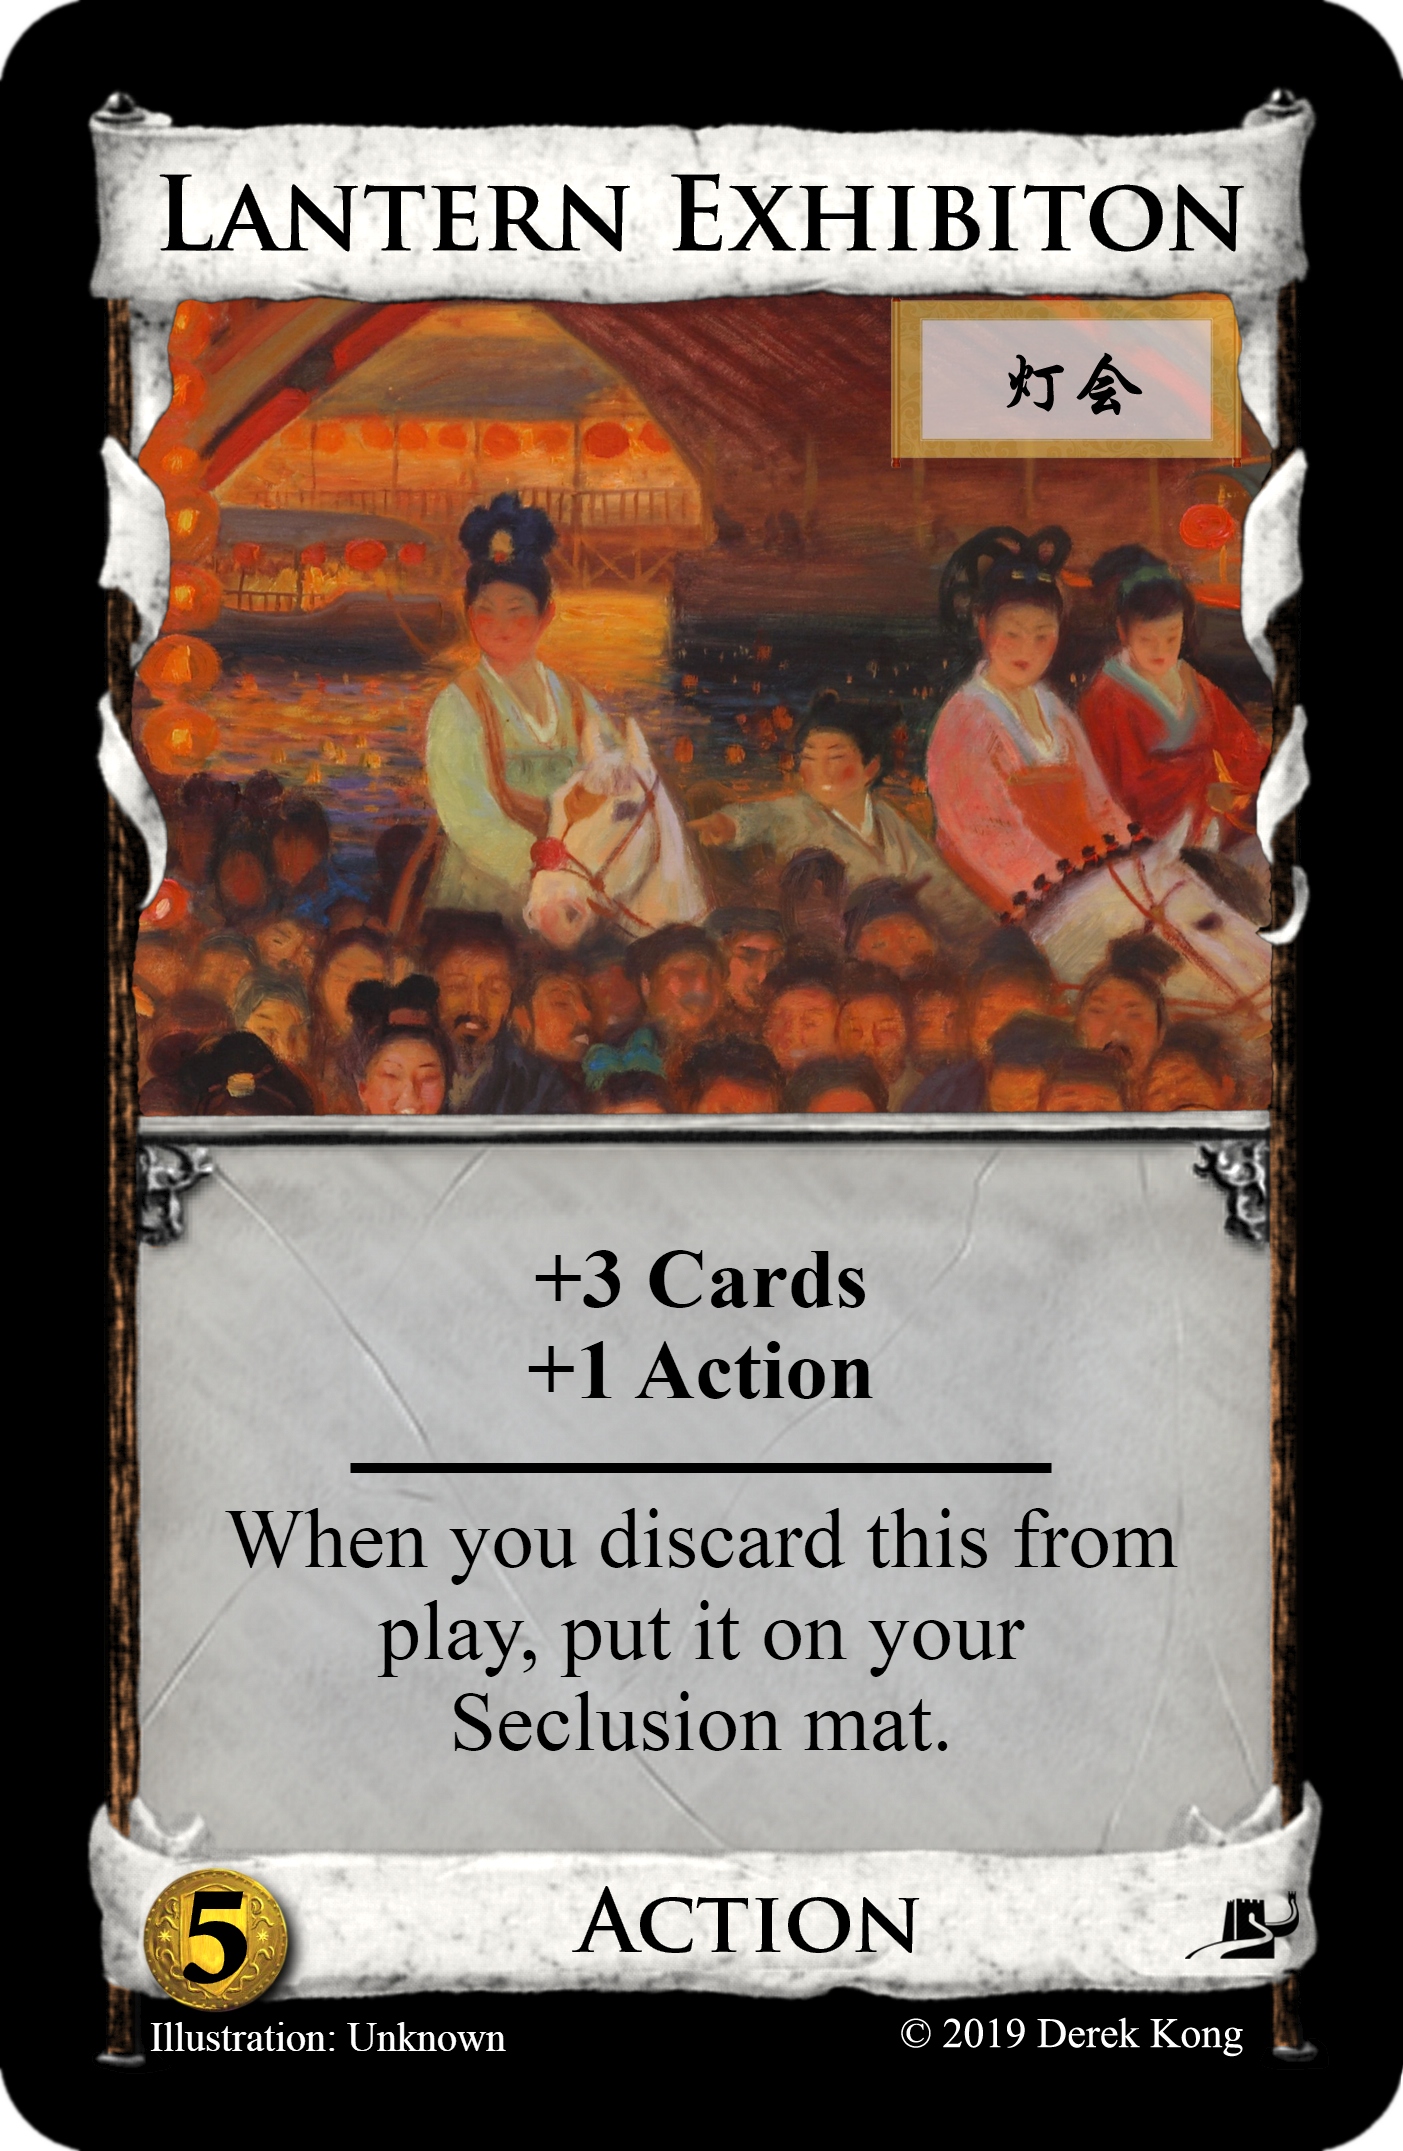
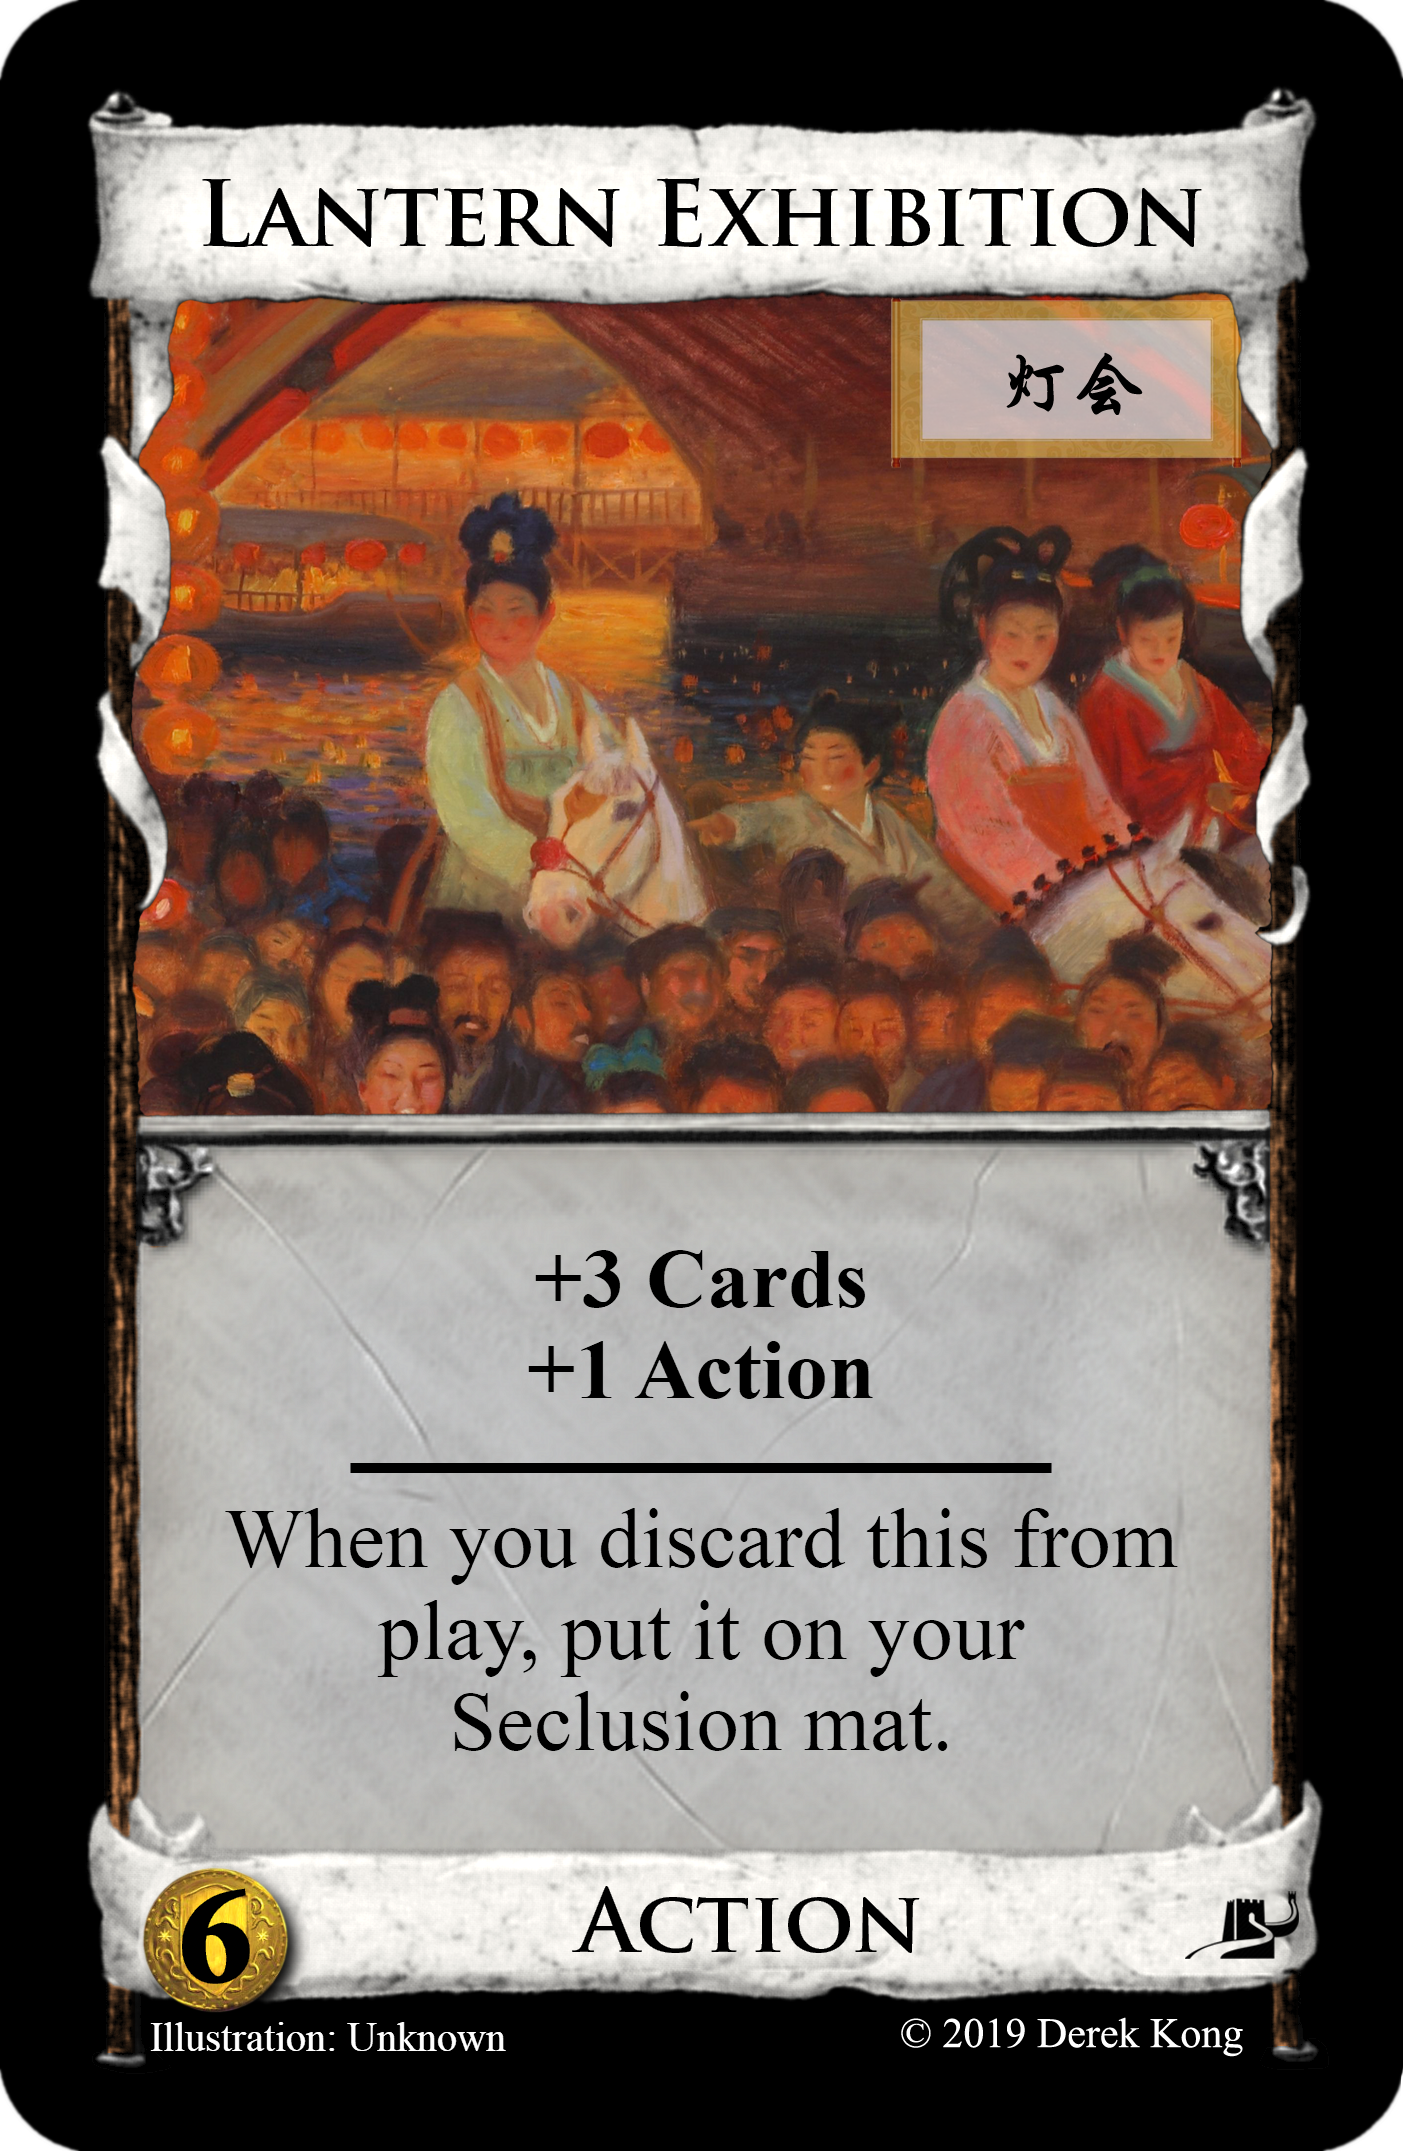
#0085 Dominion Oriental cards fixture

diff --git a/src/main/webapp/view/css/dominionGame.css b/src/main/webapp/view/css/dominionGame.css
@@ -90,7 +90,7 @@ button[disable]{
 }
 .choosehand-number{
 	position: relative;
-	top: 26px;
+	top: 21px;
 	left: 33px;
 	color: white;
 	font-weight:500;

diff --git a/src/main/java/com/cosine/cosgame/dominion/oriental/PendantForWine.java b/src/main/java/com/cosine/cosgame/dominion/oriental/PendantForWine.java
@@ -18,9 +18,29 @@ public class PendantForWine extends Card{
 		Ask ask = super.play();
 		if (player.getHand().size()>0) {
 			player.addCoin(5);
-			log(player.getName() + " discards hand for +$5", 1);
-			player.discardHand();
+			if (player.getHand().size()<5) {
+				log(player.getName() + " discards hand for +$5", 1);
+				player.discardHand();
+			} else {
+				ask.setType(Ask.HANDCHOOSE);
+				ask.setUpper(4);
+				ask.setLower(4);
+				ask.setMsg("Discard 4 cards");
+			}
+			
+			
 		}
 		return ask;
+	}
+	
+	public Ask response(Ask a) {
+		Ask ask = super.response(a);
+		log(player.getName()+" discards 4 cards for +$5",1);
+		for (int i=0;i<ask.getSelectedCards().size();i++) {
+			player.discard(ask.getSelectedCards().get(i));
+		}
+		ask = new Ask();
+		return ask;
+		
 	}
 }

diff --git a/src/main/java/com/cosine/cosgame/dominion/oriental/Executioner.java b/src/main/java/com/cosine/cosgame/dominion/oriental/Executioner.java
@@ -5,6 +5,7 @@ import java.util.List;
 
 import com.cosine.cosgame.dominion.Ask;
 import com.cosine.cosgame.dominion.Card;
+import com.cosine.cosgame.dominion.Player;
 
 public class Executioner extends Card{
 	public Executioner() {
@@ -42,6 +43,15 @@ public class Executioner extends Card{
 			log(player.getName() + " receives 2 Memorial tokens",1);
 		}
 		ask = new Ask();
+		return ask;
+	}
+	
+	public Ask onGain(Player p) {
+		if (p.getPhase() != Player.OFFTURN) {
+			p.addCoin(1);
+			log(p.getName() + " gets +$1", 1);
+		}
+		Ask ask = new Ask();
 		return ask;
 	}
 }

diff --git a/src/main/java/com/cosine/cosgame/dominion/oriental/ArmyDrummer.java b/src/main/java/com/cosine/cosgame/dominion/oriental/ArmyDrummer.java
@@ -31,9 +31,11 @@ public class ArmyDrummer extends Card{
 	}
 	
 	public Ask onGain(Player p) {
-		if (p.getPhase() != Player.OFFTURN) {
-			p.addCoin(1);
-			log(p.getName() + " gets +$1", 1);
+		int n = p.getDiscard().size() - 1;
+		if (p.getDiscard().get(n).getName().equals(name)) {
+			Card card = p.getDiscard().remove(n);
+			p.getSeclusion().add(card);
+			log("Army Drummer is gained to " + p.getName() + "'s Seclusion mat", 0);
 		}
 		Ask ask = new Ask();
 		return ask;

diff --git a/src/main/java/com/cosine/cosgame/dominion/oriental/LanternExhibition.java b/src/main/java/com/cosine/cosgame/dominion/oriental/LanternExhibition.java
@@ -10,7 +10,7 @@ public class LanternExhibition extends Card{
 		this.name = "LanternExhibition";
 		this.image = "/image/Dominion/cards/Oriental/LanternExhibition.png";
 		this.types[INDEX_ACTION] = true;
-		this.price = 5;
+		this.price = 6;
 		this.card = 3;
 		this.action = 1;
 
